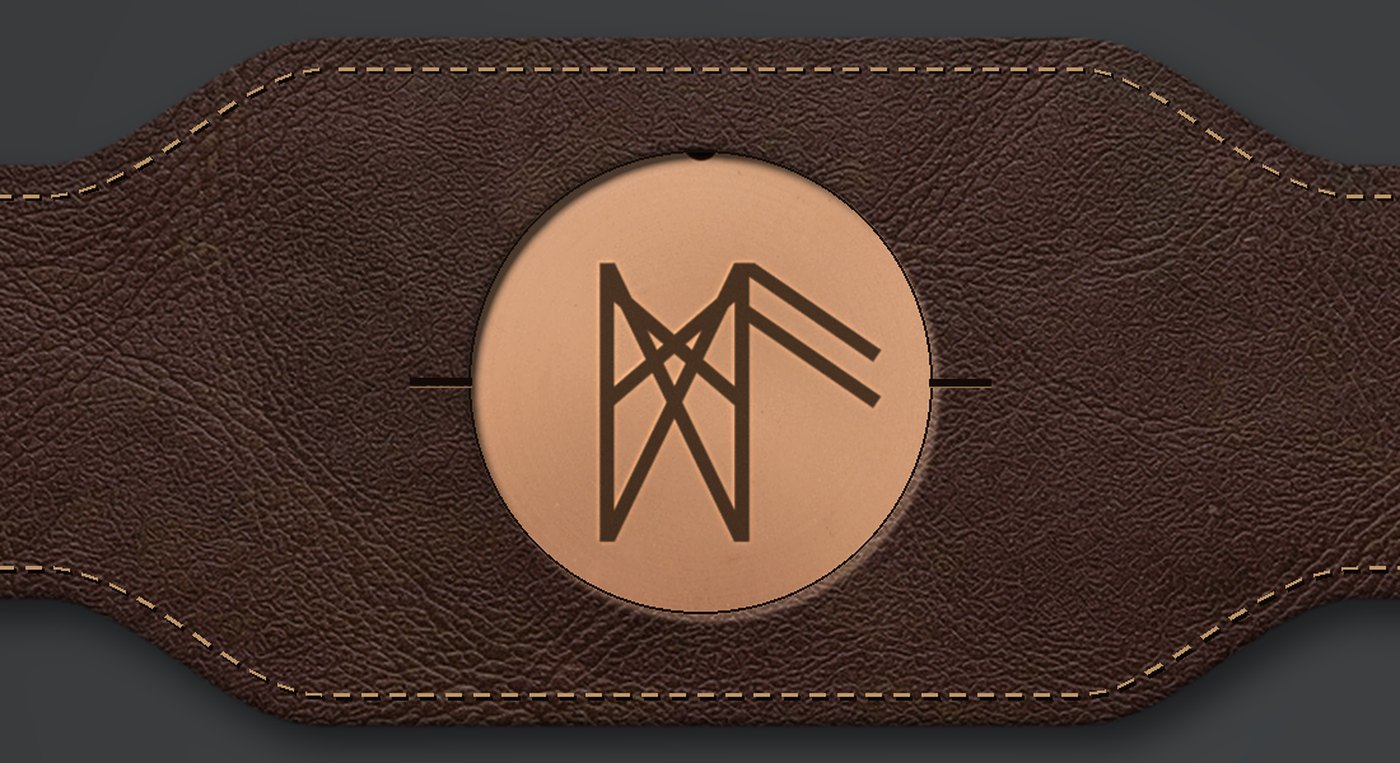
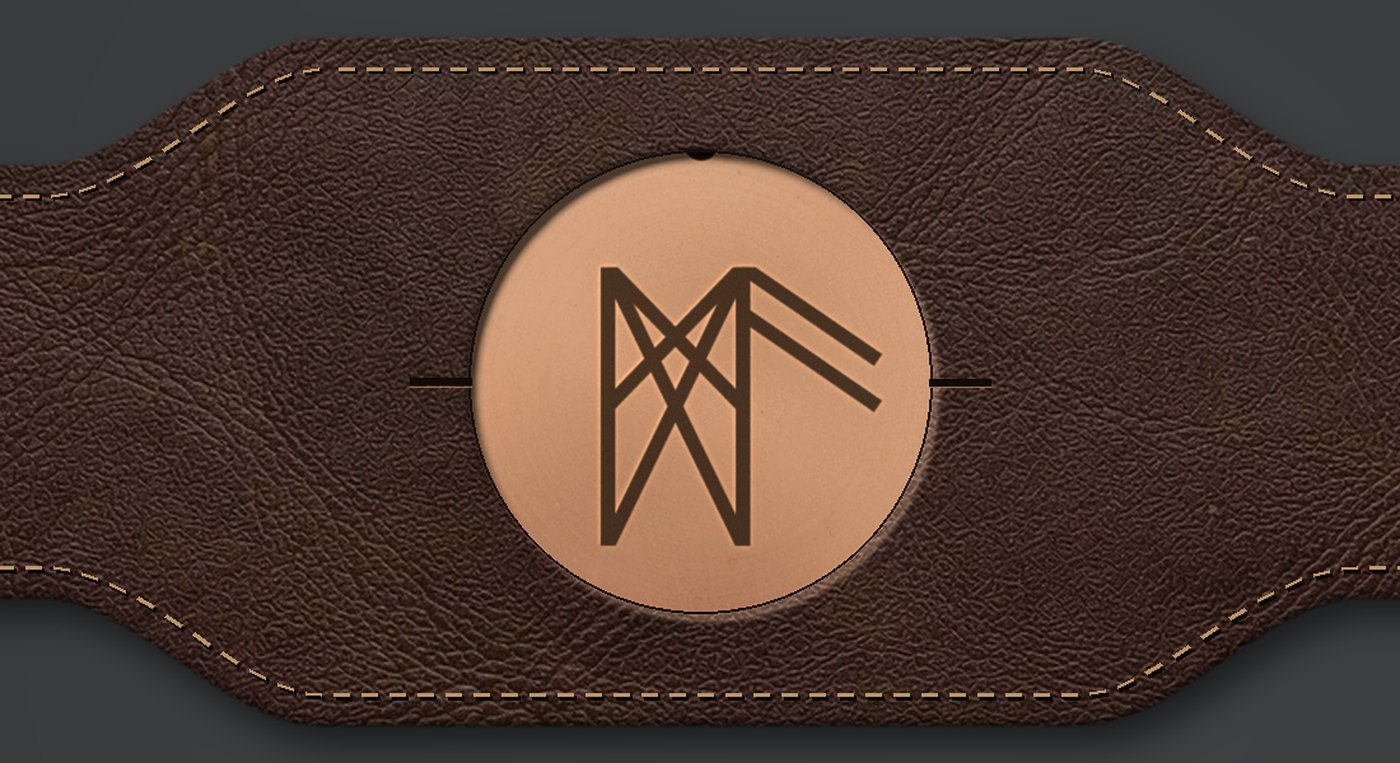
Mannaz : le X part du haut des deux tiges (forme du livre) ; données et visuels régénérés

diff --git a/docs/data.js b/docs/data.js
@@ -1,1 +1,1 @@
-window.VERBAFLUX = {"strokeWidth": 20, "bbox": [160, 58, 544, 454], "runes": [{"name": "Gebo", "color": "#3D5C8C", "strokes": [[[160, 58], [352, 454]], [[352, 58], [160, 454]]]}, {"name": "Mannaz", "color": "#7A4E7A", "strokes": [[[160, 58], [160, 454]], [[352, 58], [352, 454]], [[160, 91], [352, 256]], [[352, 91], [160, 256]]]}, {"name": "Ansuz", "color": "#A4551F", "strokes": [[[352, 58], [352, 454]], [[352, 58], [544, 190]], [[352, 124], [544, 256]]]}, {"name": "Laguz", "color": "#2B2B2E", "strokes": [[[352, 58], [352, 454]], [[352, 58], [544, 190]]]}]};
+window.VERBAFLUX = {"strokeWidth": 20, "bbox": [160, 58, 544, 454], "runes": [{"name": "Gebo", "color": "#3D5C8C", "strokes": [[[160, 58], [352, 454]], [[352, 58], [160, 454]]]}, {"name": "Mannaz", "color": "#7A4E7A", "strokes": [[[160, 58], [160, 454]], [[352, 58], [352, 454]], [[160, 58], [352, 256]], [[352, 58], [160, 256]]]}, {"name": "Ansuz", "color": "#A4551F", "strokes": [[[352, 58], [352, 454]], [[352, 58], [544, 190]], [[352, 124], [544, 256]]]}, {"name": "Laguz", "color": "#2B2B2E", "strokes": [[[352, 58], [352, 454]], [[352, 58], [544, 190]]]}]};
